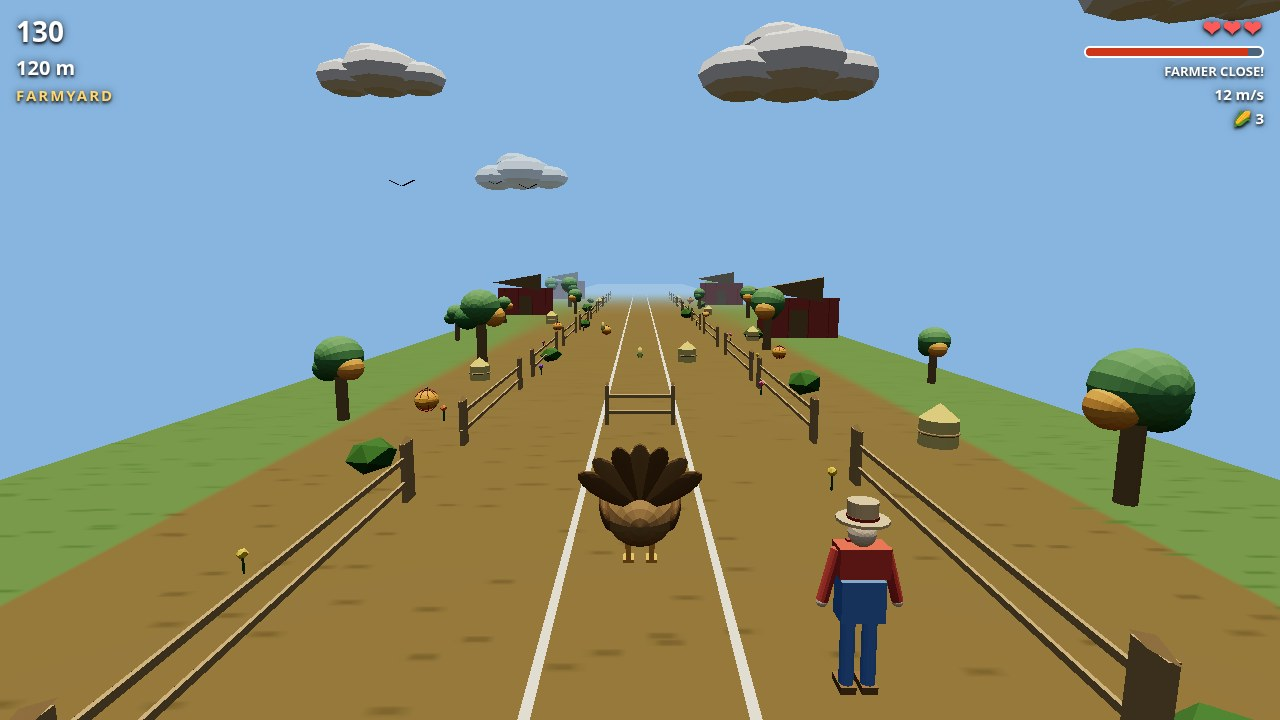
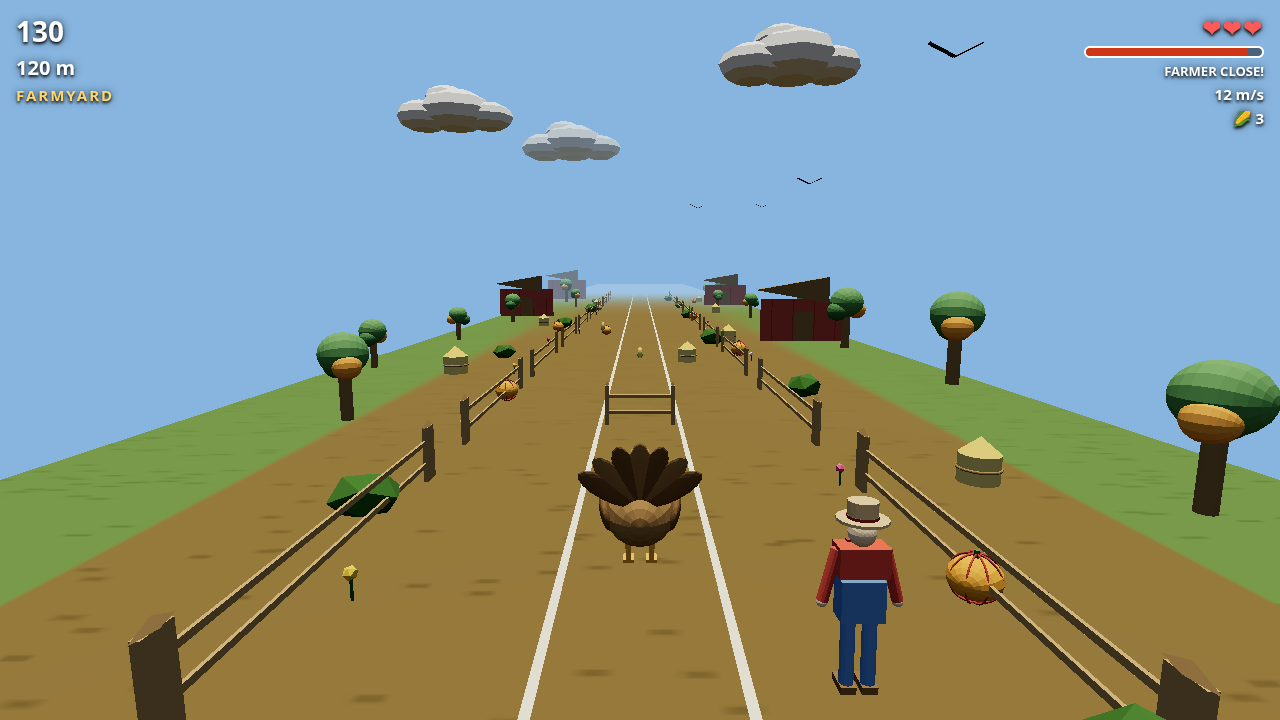
Verify round 3: title hint lifted clear of turkey tail (paddingBottom 170px), live finish gate clamped at z=3.5 so turkey stays visible in ESCAPED frame; gate proof 18/18 perfect + 14/18 human; live ESCAPED seed 1 score 1655, 0 hits; fresh screenshots

diff --git a/game/src/hud.js b/game/src/hud.js
@@ -112,13 +112,28 @@ export class Hud {
     if (kind === 'escaped') {
       this.overlayEl.style.justifyContent = 'flex-start';
       this.overlayEl.style.paddingTop = '48px';
+      this.overlayEl.style.paddingBottom = '';
       this.overlayTitleEl.style.fontSize = '34px';
       this.overlaySubEl.style.fontSize = '16px';
       this.overlayScoreEl.style.fontSize = '20px';
       this.overlayHintEl.style.fontSize = '14px';
+    } else if (kind === 'title') {
+      // ROUND 3: push the whole centred block up so the hint line clears
+      // the turkey's tail fan (peak ~y415 px at 1280x720). With
+      // justify-content center, paddingBottom 170 px lifts the block
+      // ~85 px: hint ~y440 -> ~y355, leaving ~30 px clear of the tail.
+      // 3D staging (camera/farmer/turkey) untouched — overlay only.
+      this.overlayEl.style.justifyContent = '';
+      this.overlayEl.style.paddingTop = '';
+      this.overlayEl.style.paddingBottom = '170px';
+      this.overlayTitleEl.style.fontSize = '';
+      this.overlaySubEl.style.fontSize = '';
+      this.overlayScoreEl.style.fontSize = '';
+      this.overlayHintEl.style.fontSize = '';
     } else {
       this.overlayEl.style.justifyContent = '';
       this.overlayEl.style.paddingTop = '';
+      this.overlayEl.style.paddingBottom = '';
       this.overlayTitleEl.style.fontSize = '';
       this.overlaySubEl.style.fontSize = '';
       this.overlayScoreEl.style.fontSize = '';

diff --git a/game/src/obstacles.js b/game/src/obstacles.js
@@ -205,7 +205,12 @@ export class ObstacleField {
     // visibly ran through it and the gate light could never reach it. The
     // finish itself is unchanged (distance-based at 1400 m); the gate just
     // arrives at the turkey (z≈-5) as the run ends.
-    if (this.gate) this.gate.position.z -= dz;
+    // ROUND 3: clamp the live gate at z = 3.5 so it never scrolls past
+    // the turkey into the camera (it used to freeze at z≈-5, 1.8 m in
+    // front of the gameplay camera, covering the turkey in the ESCAPED
+    // frame). The gate now stops 3.5 m ahead of the turkey, framing it
+    // inside the arch. Finish stays distance-based (1400 m) — unchanged.
+    if (this.gate) this.gate.position.z = Math.max(this.gate.position.z - dz, 3.5);
     for (const o of this.obstacles) {
       o.z -= dz;
       o.mesh.position.z = o.z;
